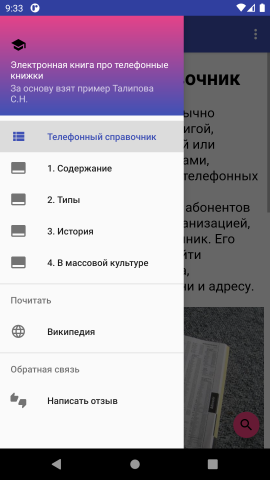
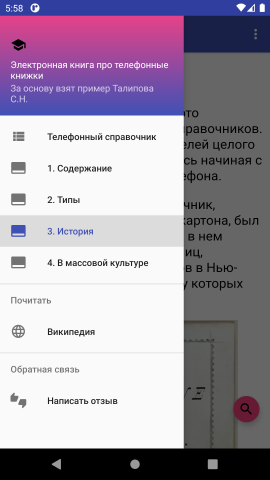
Add back & next buttons, change screenshots

diff --git a/app/src/main/java/kz/gvsx/electronicbook/MainActivity.java b/app/src/main/java/kz/gvsx/electronicbook/MainActivity.java
@@ -25,12 +25,16 @@ import androidx.appcompat.app.ActionBarDrawerToggle;
 import androidx.appcompat.app.AppCompatActivity;
 import androidx.appcompat.widget.Toolbar;
 import androidx.core.view.GravityCompat;
+import androidx.core.widget.NestedScrollView;
 import androidx.drawerlayout.widget.DrawerLayout;
 
 import com.google.android.material.floatingactionbutton.FloatingActionButton;
 import com.google.android.material.navigation.NavigationView;
 
 import java.lang.reflect.Method;
+import java.util.ArrayList;
+import java.util.HashMap;
+import java.util.List;
 
 public class MainActivity extends AppCompatActivity
         implements NavigationView.OnNavigationItemSelectedListener {
@@ -39,13 +43,18 @@ public class MainActivity extends AppCompatActivity
     private static final String ID_TOPIC = "idTopic"; // Название ключа для хранения ID-кода выбранной темы
     private static final String FULL_SIZE_FONT = "isFullSizeFont"; // Название ключа для хранения выбора крупного шрифта
     private static final String MY_SEARCH = "mysearch"; // Название ключа для хранения разрешения поиска
+    private static final String HTML_ASSETS_DIR = "file:///android_asset/HTML/"; // Путь к html-страницам в ресурсах приложения
+    private static final List<String> LIST_OF_TOPICS = new ArrayList<>();
+    private static final HashMap<Integer, Integer> ID_TO_INDEX = new HashMap<>();
+    private static final HashMap<Integer, Integer> INDEX_TO_ID = new HashMap<>();
     EditText searchText; // Поле для ввода искомого текста
     TextView searchCountText; // Поле для отображения сколько найдено фрагментов поиска
     ImageButton searchForwardButton, searchCloseButton, searchBackButton; // Кнопки навигации поиска
     RelativeLayout searchToolLayout;// Панель поиска
     FloatingActionButton searchButton;// Круглая кнопка поиска
+    private NestedScrollView nestedScrollView;
+    private NavigationView navigationView;
     private WebView webView; // Компонент для просмотра html-страниц
-    private String resourceDir; // Путь к html-страницам в ресурсах приложения
     private int idTopic; // ID-код выбранной темы
     private SharedPreferences sPref; // Переменная для работы с настройками программы
     private boolean isFullSizeFont = true; // Переменная признака выбора крупного шрифта с инициализацией
@@ -101,7 +110,7 @@ public class MainActivity extends AppCompatActivity
                 this, drawer, toolbar, R.string.navigation_drawer_open, R.string.navigation_drawer_close);
         drawer.setDrawerListener(toggle);
         toggle.syncState();
-        NavigationView navigationView = findViewById(R.id.nav_view);
+        navigationView = findViewById(R.id.nav_view);
         navigationView.setNavigationItemSelectedListener(this);
 
         // Устанавливаем выбранный пункт меню
@@ -109,6 +118,8 @@ public class MainActivity extends AppCompatActivity
             navigationView.setCheckedItem(idTopic);
         } catch (Exception ignore) {
         }
+
+        nestedScrollView = findViewById(R.id.nestedScrollView);
 
         // Поиск компонента для отображения html-страниц
         webView = findViewById(R.id.webView);
@@ -133,8 +144,21 @@ public class MainActivity extends AppCompatActivity
 
         initWebView(isFullSizeFont);
 
-        // Определение пути к html-файлам
-        resourceDir = getString(R.string.resource_directory);
+        LIST_OF_TOPICS.add(HTML_ASSETS_DIR + "0/0.htm");
+        LIST_OF_TOPICS.add(HTML_ASSETS_DIR + "1/1.htm");
+        LIST_OF_TOPICS.add(HTML_ASSETS_DIR + "2/2.htm");
+        LIST_OF_TOPICS.add(HTML_ASSETS_DIR + "3/3.htm");
+        LIST_OF_TOPICS.add(HTML_ASSETS_DIR + "4/4.htm");
+        ID_TO_INDEX.put(R.id.page0, 0);
+        ID_TO_INDEX.put(R.id.page1, 1);
+        ID_TO_INDEX.put(R.id.page2, 2);
+        ID_TO_INDEX.put(R.id.page3, 3);
+        ID_TO_INDEX.put(R.id.page4, 4);
+        INDEX_TO_ID.put(0, R.id.page0);
+        INDEX_TO_ID.put(1, R.id.page1);
+        INDEX_TO_ID.put(2, R.id.page2);
+        INDEX_TO_ID.put(3, R.id.page3);
+        INDEX_TO_ID.put(4, R.id.page4);
 
         //Инициализация начала просмотра html-страниц
         onNavigationItemSelected(null);
@@ -215,7 +239,30 @@ public class MainActivity extends AppCompatActivity
         });
 
         searchCloseButton.performClick();
+    }
 
+    public void btnBackOnClick(View view) {
+        try {
+            int topicIndex = ID_TO_INDEX.get(idTopic) - 1;
+            String topicLink = LIST_OF_TOPICS.get(topicIndex);
+            webView.loadUrl(topicLink);
+            idTopic = INDEX_TO_ID.get(topicIndex);
+            nestedScrollView.scrollTo(0, 0);
+            navigationView.setCheckedItem(idTopic);
+        } catch (Exception e) {
+        }
+    }
+
+    public void btnNextOnClick(View view) {
+        try {
+            int topicIndex = ID_TO_INDEX.get(idTopic) + 1;
+            String topicLink = LIST_OF_TOPICS.get(topicIndex);
+            webView.loadUrl(topicLink);
+            idTopic = INDEX_TO_ID.get(topicIndex);
+            nestedScrollView.scrollTo(0, 0);
+            navigationView.setCheckedItem(idTopic);
+        } catch (Exception e) {
+        }
     }
 
     // Сохранение данных в буфер при переворачивании экрана
@@ -315,35 +362,17 @@ public class MainActivity extends AppCompatActivity
             id = idTopic;
         } else { // Вызывается при выборе темы из меню тем
             id = item.getItemId();
-            // Сохранение выбранной темы, кроме случаев всех внешних переходов
-            if (item.isCheckable()) {
-                idTopic = id;
-            }
         }
 
         // Блок выбора тем
-        switch (id) {
-            case R.id.page0:
-                webView.loadUrl(resourceDir + "0/0.htm");
-                break;
-            case R.id.page1:
-                webView.loadUrl(resourceDir + "1/1.htm");
-                break;
-            case R.id.page2:
-                webView.loadUrl(resourceDir + "2/2.htm");
-                break;
-            case R.id.page3:
-                webView.loadUrl(resourceDir + "3/3.htm");
-                break;
-            case R.id.page4:
-                webView.loadUrl(resourceDir + "4/4.htm");
-                break;
-            case R.id.nav_view1:
-                openLinkExternally("https://en.wikipedia.org/wiki/Telephone_directory");
-                break;
-            case R.id.nav_send:
-                sendMail("email@example.com", "Предложения по приложению", "Здравствуйте!");
-                break;
+        if (id == R.id.nav_view1) {
+            openLinkExternally("https://en.wikipedia.org/wiki/Telephone_directory");
+        } else if (id == R.id.nav_send) {
+            sendMail("email@example.com", "Предложения по приложению", "Здравствуйте!");
+        } else {
+            idTopic = id;
+            int topicIndex = ID_TO_INDEX.get(id);
+            webView.loadUrl(LIST_OF_TOPICS.get(topicIndex));
         }
 
         DrawerLayout drawer = findViewById(R.id.drawer_layout);
